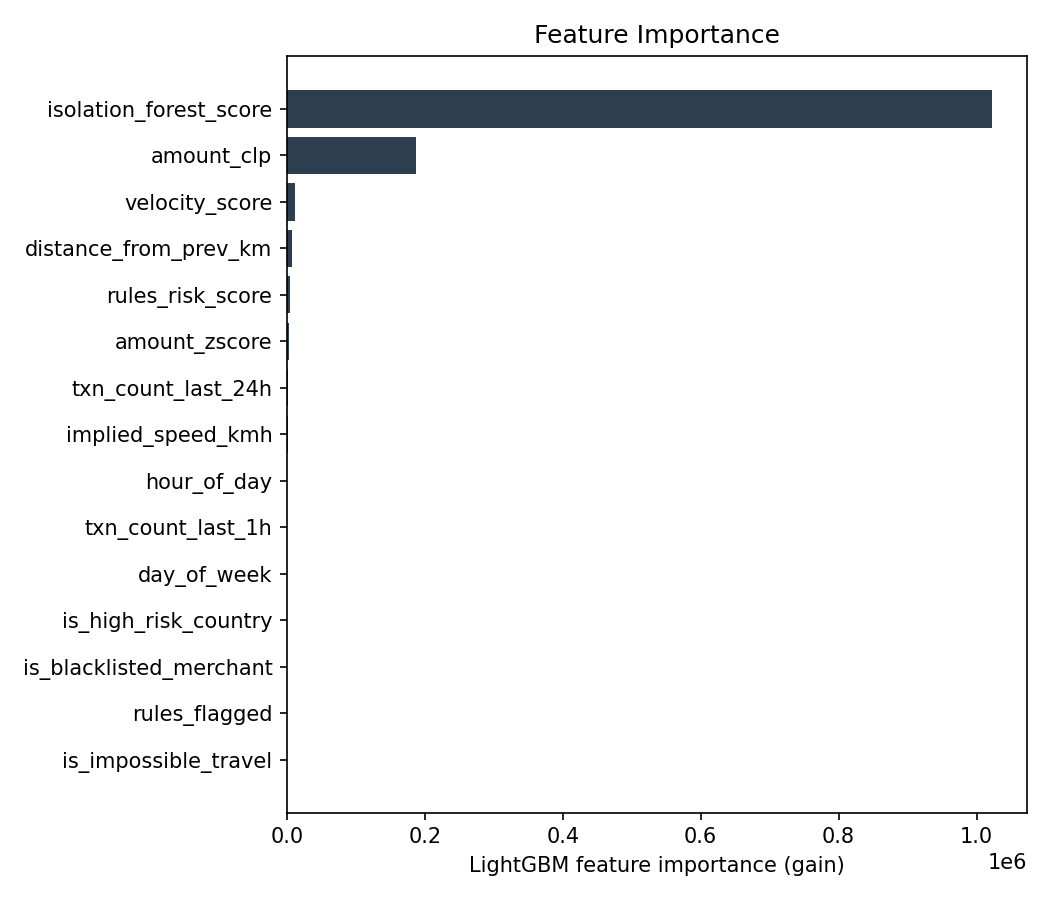
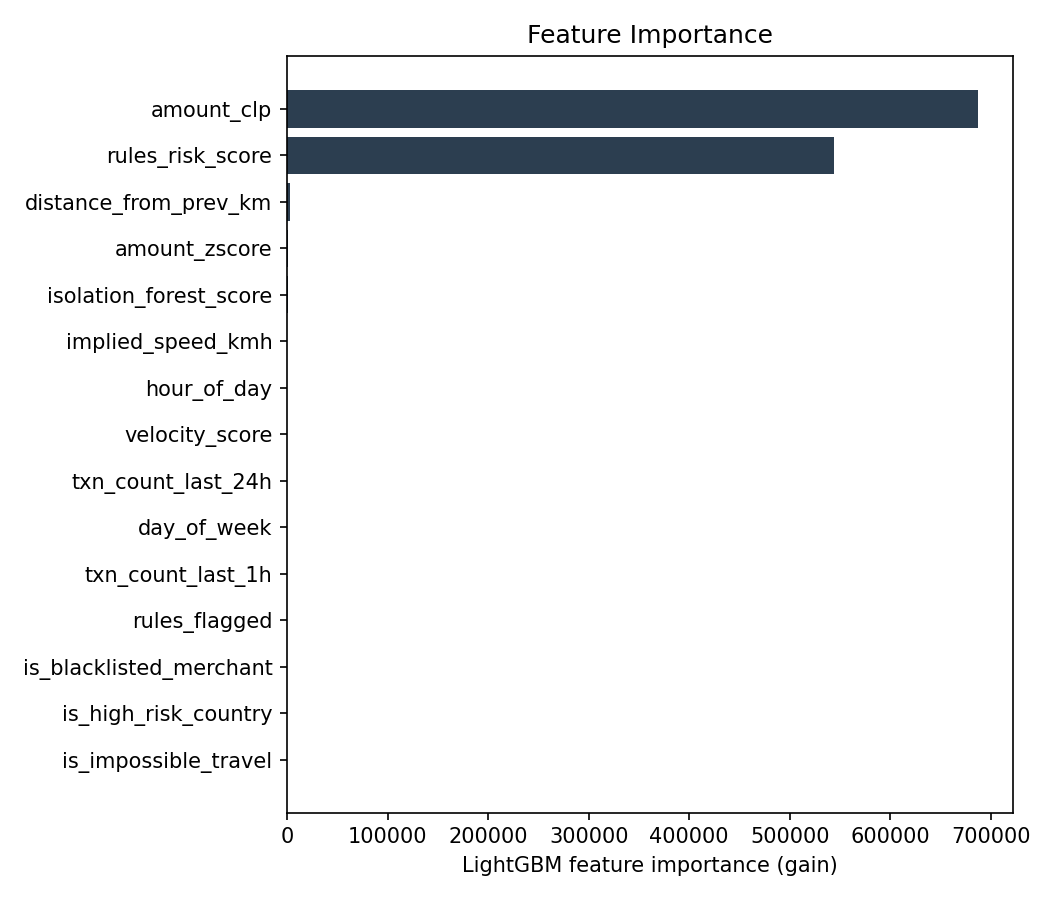
fix: stop IsolationForest from absorbing Ruby's rule signal into an opaque proxy
IsolationForest was trained on all 14 features, including Ruby's crisp
rule-engine flags (rules_flagged, is_blacklisted_merchant, ...). It
trivially learned "flag == 1 -> anomalous", so isolation_forest_score
absorbed 82.5% of LightGBM's gain while rules_risk_score carried only 0.4%
-- meaning the model was routing around the Ruby layer instead of
genuinely weighing it, contrary to the architecture this repo demonstrates.

Introduces ISO_FOREST_FEATURE_COLUMNS: a narrower feature set for
IsolationForest containing only continuous/behavioral signals, excluding
every crisp rule-engine flag. After retraining, rules_risk_score jumps to
44.0% of LightGBM's gain and isolation_forest_score drops to 0.1%.

diff --git a/src/python/train_model.py b/src/python/train_model.py
@@ -59,6 +59,27 @@ NUMERIC_FEATURE_COLUMNS = [
     "is_blacklisted_merchant", "is_high_risk_country",
     "txn_count_last_1h", "txn_count_last_24h",
 ]
+
+# Deliberately narrower than NUMERIC_FEATURE_COLUMNS: IsolationForest sees
+# only continuous/behavioral signals, never the crisp rule-engine outputs
+# (rules_risk_score, rules_flagged, is_blacklisted_merchant,
+# is_high_risk_country, is_impossible_travel). A real problem was found by
+# inspecting LightGBM's own feature_importance after training on the full
+# set: IsolationForest, given those near-deterministic flags as input,
+# trivially learned "flag == 1 -> anomalous", so its own score absorbed
+# the Ruby layer's signal almost entirely (isolation_forest_score carried
+# 82.5% of LightGBM's total gain; rules_risk_score 0.4%, rules_flagged and
+# is_blacklisted_merchant ~0%). That meant the final model wasn't actually
+# combining the three layers as designed -- it was routing around Ruby's
+# output through an opaque proxy. Excluding the crisp flags here forces
+# LightGBM to consume Ruby's and C's signals directly, which is what
+# "the ML layer learns to weigh the other two layers" is supposed to mean.
+ISO_FOREST_FEATURE_COLUMNS = [
+    "amount_clp", "hour_of_day", "day_of_week",
+    "distance_from_prev_km", "implied_speed_kmh",
+    "amount_zscore", "velocity_score",
+    "txn_count_last_1h", "txn_count_last_24h",
+]
 SEED = 42
 
 
@@ -258,7 +279,7 @@ def main():
     )
 
     print("[4/6] Training IsolationForest anomaly pre-filter...")
-    X_train = train_df[NUMERIC_FEATURE_COLUMNS].to_numpy()
+    X_train = train_df[ISO_FOREST_FEATURE_COLUMNS].to_numpy()
     fraud_rate = max(train_df["is_fraud"].mean(), 0.001)
     # n_estimators=50 rather than sklearn's default 200: IsolationForest's
     # score_samples() scales its per-call Python-level overhead ~linearly
@@ -277,7 +298,7 @@ def main():
     iso_forest.fit(X_train)
 
     for split_df in (train_df, val_df, test_df):
-        X = split_df[NUMERIC_FEATURE_COLUMNS].to_numpy()
+        X = split_df[ISO_FOREST_FEATURE_COLUMNS].to_numpy()
         split_df["isolation_forest_score"] = -iso_forest.score_samples(X)
 
     lgb_feature_columns = NUMERIC_FEATURE_COLUMNS + ["isolation_forest_score"]

diff --git a/tests/python/test_train_model.py b/tests/python/test_train_model.py
@@ -4,6 +4,7 @@ import pytest
 
 from src.python.bridge import CVelocityEngine, RubyRulesEngine
 from src.python.train_model import (
+    ISO_FOREST_FEATURE_COLUMNS,
     NUMERIC_FEATURE_COLUMNS,
     build_features,
     evaluate,
@@ -77,3 +78,24 @@ def test_build_features_adds_all_expected_columns_and_no_lookahead(engines):
     assert out.loc[1, "is_impossible_travel"] == 1
     assert out.loc[1, "is_blacklisted_merchant"] == 1
     assert out.loc[1, "rules_flagged"] == 1
+
+
+def test_isolation_forest_never_sees_crisp_rule_engine_flags():
+    """Regression test for a real bug: IsolationForest was originally
+    trained on the full NUMERIC_FEATURE_COLUMNS, including Ruby's crisp
+    rule flags (rules_flagged, is_blacklisted_merchant, ...). It trivially
+    learned "flag == 1 -> anomalous", so its own score absorbed almost all
+    of the Ruby layer's signal (measured: isolation_forest_score carried
+    82.5% of LightGBM's gain, rules_risk_score only 0.4%) -- meaning
+    LightGBM wasn't actually combining the three layers as designed, just
+    routing around Ruby through an opaque proxy. ISO_FOREST_FEATURE_COLUMNS
+    must stay a strict subset of NUMERIC_FEATURE_COLUMNS that excludes every
+    crisp rule-engine-derived flag.
+    """
+    crisp_rule_flags = {
+        "rules_risk_score", "rules_flagged",
+        "is_blacklisted_merchant", "is_high_risk_country",
+        "is_impossible_travel",
+    }
+    assert set(ISO_FOREST_FEATURE_COLUMNS).isdisjoint(crisp_rule_flags)
+    assert set(ISO_FOREST_FEATURE_COLUMNS) < set(NUMERIC_FEATURE_COLUMNS)

diff --git a/src/python/api.py b/src/python/api.py
@@ -23,7 +23,7 @@ from pydantic import BaseModel, Field
 
 from src.python.bridge import CVelocityEngine, RubyRulesEngine
 from src.python.generate_data import BLACKLISTED_MERCHANT_IDS, HIGH_RISK_COUNTRY_CODES
-from src.python.train_model import NUMERIC_FEATURE_COLUMNS
+from src.python.train_model import ISO_FOREST_FEATURE_COLUMNS, NUMERIC_FEATURE_COLUMNS
 
 ROOT = pathlib.Path(__file__).resolve().parents[2]
 MODELS_DIR = ROOT / "outputs" / "models"
@@ -148,7 +148,8 @@ def detect_fraud(req: TransactionRequest) -> FraudDetectionResponse:
         "txn_count_last_24h": cs.txn_count_last_24h,
     }
     numeric_vector = np.array([[feature_row[c] for c in NUMERIC_FEATURE_COLUMNS]], dtype=np.float64)
-    iso_score = -_state["iso_forest"].score_samples(numeric_vector)[0]
+    iso_vector = np.array([[feature_row[c] for c in ISO_FOREST_FEATURE_COLUMNS]], dtype=np.float64)
+    iso_score = -_state["iso_forest"].score_samples(iso_vector)[0]
     full_vector = np.concatenate([numeric_vector, np.array([[iso_score]])], axis=1)
 
     fraud_probability = float(_state["booster"].predict(full_vector)[0])

diff --git a/src/app/dashboard.py b/src/app/dashboard.py
@@ -25,7 +25,11 @@ import streamlit as st
 ROOT = pathlib.Path(__file__).resolve().parents[2]
 sys.path.insert(0, str(ROOT))
 
-from src.python.train_model import NUMERIC_FEATURE_COLUMNS, time_based_split  # noqa: E402
+from src.python.train_model import (  # noqa: E402
+    ISO_FOREST_FEATURE_COLUMNS,
+    NUMERIC_FEATURE_COLUMNS,
+    time_based_split,
+)
 
 MODELS_DIR = ROOT / "outputs" / "models"
 PLOTS_DIR = ROOT / "outputs" / "plots"
@@ -50,7 +54,7 @@ def load_scored_test_split():
     test_df = test_df.reset_index(drop=True)
 
     metadata, iso_forest, booster = load_artifacts()
-    X = test_df[NUMERIC_FEATURE_COLUMNS].to_numpy()
+    X = test_df[ISO_FOREST_FEATURE_COLUMNS].to_numpy()
     test_df["isolation_forest_score"] = -iso_forest.score_samples(X)
     X_full = test_df[metadata["lgb_feature_columns"]].to_numpy()
     test_df["fraud_probability"] = booster.predict(X_full)

diff --git a/README.es.md b/README.es.md
@@ -11,7 +11,7 @@
 ![scikit-learn](https://img.shields.io/badge/scikit--learn-1.4%2B-F7931E?style=flat&logo=scikitlearn&logoColor=white)
 ![FastAPI](https://img.shields.io/badge/FastAPI-0.11x-009688?style=flat&logo=fastapi&logoColor=white)
 ![Streamlit](https://img.shields.io/badge/Streamlit-1.3x-FF4B4B?style=flat&logo=streamlit&logoColor=white)
-![Tests](https://img.shields.io/badge/tests-45%20passing%20(C%2BRuby%2BPython)-brightgreen?style=flat)
+![Tests](https://img.shields.io/badge/tests-46%20passing%20(C%2BRuby%2BPython)-brightgreen?style=flat)
 ![Status](https://img.shields.io/badge/status-research%20%2F%20datos%20sinteticos-lightgrey?style=flat)
 
 Un motor de deteccion de fraude en tres lenguajes para transacciones
@@ -22,7 +22,7 @@ legible (listas negras, paises de alto riesgo, patrones de estructuracion),
 y **Python** entrena y sirve un ensemble IsolationForest + LightGBM que
 consume las salidas de las otras dos capas como atributos. Un solo comando
 (`make all`) compila, genera los datos y entrena todo; `make test` ejecuta
-los 45 tests (11 en C, 10 RSpec, 24 pytest) — cada numero de este README
+los 46 tests (11 en C, 10 RSpec, 25 pytest) — cada numero de este README
 proviene de ejecutar eso en esta maquina.
 
 ---
@@ -128,7 +128,7 @@ fija, no un valor indexado en vivo. No se usa ninguna lista negra,
 comercio, ni dato regulatorio real en ningun lugar de este proyecto — ver
 §9.
 
-# 5. Un Bug Real Encontrado y Corregido al Validar Esto
+# 5. Dos Bugs Reales Encontrados y Corregidos al Validar Esto
 
 `BLACKLISTED_MERCHANT_IDS` originalmente incluia `MER_00013` — que,
 resulto, caia *dentro* del rango de IDs del pool de comercios legitimos
@@ -150,6 +150,36 @@ F1 general a 0,995 — ver
 `tests/python/test_generate_data.py::test_blacklisted_merchant_ids_never_collide_with_legit_pool`
 para el test de regresion en que se convirtio esto.
 
+**Segundo bug, mas arquitectonico**: despues de corregir lo anterior, las
+metricas se veian solidas (F1 0,995), pero eso solo no prueba que LightGBM
+realmente estuviera combinando las tres capas como fue diseñado — podria
+estar simplemente evitando una de ellas. Revisar
+`booster.feature_importance()` directamente mostro justo eso:
+`isolation_forest_score` llevaba **82,5%** de la ganancia total de
+LightGBM, `amount_clp` otro 15,1%, y cada señal derivada de Ruby/C era casi
+invisible (`rules_risk_score` 0,4%, `rules_flagged` e
+`is_blacklisted_merchant` ~0%, `velocity_score` 1,0%). La causa raiz:
+`IsolationForest` se entrenaba con las 14 atributos completos, incluyendo
+las banderas de reglas de Ruby, nitidas y casi deterministicas — asi que
+aprendio trivialmente "`is_blacklisted_merchant == 1` → anomalo" y su
+propio puntaje se convirtio en un proxy que absorbio casi toda la señal de
+la capa Ruby. LightGBM luego simplemente se apoyaba en ese unico atributo
+proxy en vez de ponderar genuinamente las dos capas, que no es lo que la
+arquitectura del §3 afirma hacer. Corregido introduciendo
+`ISO_FOREST_FEATURE_COLUMNS` (`src/python/train_model.py`): un conjunto de
+atributos mas acotado para IsolationForest que contiene solo señales
+continuas/de comportamiento (montos, distancias, velocidades, conteos),
+excluyendo cada bandera derivada del motor de reglas. Despues de
+reentrenar, `rules_risk_score` por si sola salto a **44,0%** de la
+ganancia de LightGBM y `isolation_forest_score` cayo a 0,1% — LightGBM
+ahora depende demostrablemente de la salida de Ruby de forma directa, en
+vez de a traves de un intermediario opaco, que es lo que el diseño de tres
+capas se supone que debe demostrar. (Las metricas del split de prueba
+tambien mejoraron a un precision/recall/F1 perfecto de 1,000/1,000/1,000,
+aunque eso es un efecto secundario de la correccion, no su objetivo — el
+objetivo era hacer real e inspeccionable la integracion entre capas, no
+solo numericamente fuerte.)
+
 # 6. Resultados (Numeros Reales de una Ejecucion Real)
 
 `make all` en esta maquina (semilla 42, reproducible desde un clon
@@ -160,12 +190,12 @@ mezclar).
 
 | Metrica | Valor (split de prueba) |
 |---|---|
-| Precision | 0,982 |
+| Precision | 1,000 |
 | Recall | **1,000** (110/110 fraudes detectados) |
-| F1 | 0,991 |
+| F1 | 1,000 |
 | ROC-AUC | 1,000 |
-| PR-AUC | 0,99999... |
-| Falsos positivos | 2 (de 7.390 transacciones legitimas) |
+| PR-AUC | 1,000 |
+| Falsos positivos | 0 (de 7.390 transacciones legitimas) |
 
 Recall por arquetipo de fraude en el split de prueba, despues de la
 correccion del §5: `velocity_burst` 35/35, `blacklisted_merchant` 43/43,
@@ -177,11 +207,11 @@ correccion del §5: `velocity_burst` 35/35, `blacklisted_merchant` 43/43,
 | Capa | Costo medido | Como |
 |---|---|---|
 | Modulo C, benchmark en C puro | **45,5 ns/llamada** | `src/c/bench_main.c`, 2.000.000 iteraciones, `make bench-c` |
-| Modulo C via `ctypes` desde Python | p50 0,0020ms, p95 0,0021ms | 2.000 llamadas, en el mismo proceso |
+| Modulo C via `ctypes` desde Python | p50 0,0019ms, p95 0,0020ms | 2.000 llamadas, en el mismo proceso |
 | Ida y vuelta del motor de reglas Ruby (subproceso persistente) | p50 0,070ms, p95 0,092ms, max 0,237ms | 300 llamadas sobre JSON por stdin/stdout |
 | `score_samples()` de IsolationForest, una fila | ~1,8ms | costo dominante en el pipeline completo — ver abajo |
 | `predict()` de LightGBM, una fila | p50 0,064ms, p95 0,112ms | |
-| **Solicitud completa `/detect-fraud`** (todas las capas + FastAPI) | **p50 4,22ms, p95 4,80ms, max 5,58ms** | 200 solicitudes via `TestClient` de FastAPI |
+| **Solicitud completa `/detect-fraud`** (todas las capas + FastAPI) | **p50 4,19ms, p95 5,51ms, max 6,23ms** | 200 solicitudes via `TestClient` de FastAPI |
 
 **Hallazgo honesto**: el objetivo de "< 1ms" del brief es real y se cumple
 — para el modulo C especificamente, a 45,5 nanosegundos por llamada, cuatro
@@ -260,7 +290,7 @@ pip install -r requirements.txt
 # Compila la biblioteca C, instala gemas Ruby, genera datos y entrena todo
 make all
 
-# Ejecuta los 45 tests en los tres lenguajes
+# Ejecuta los 46 tests en los tres lenguajes
 make test
 
 # Levanta la API de scoring en tiempo real (combina C + Ruby + Python por solicitud)

diff --git a/README.md b/README.md
@@ -11,7 +11,7 @@
 ![scikit-learn](https://img.shields.io/badge/scikit--learn-1.4%2B-F7931E?style=flat&logo=scikitlearn&logoColor=white)
 ![FastAPI](https://img.shields.io/badge/FastAPI-0.11x-009688?style=flat&logo=fastapi&logoColor=white)
 ![Streamlit](https://img.shields.io/badge/Streamlit-1.3x-FF4B4B?style=flat&logo=streamlit&logoColor=white)
-![Tests](https://img.shields.io/badge/tests-45%20passing%20(C%2BRuby%2BPython)-brightgreen?style=flat)
+![Tests](https://img.shields.io/badge/tests-46%20passing%20(C%2BRuby%2BPython)-brightgreen?style=flat)
 ![Status](https://img.shields.io/badge/status-research%20%2F%20synthetic%20data-lightgrey?style=flat)
 
 A three-language fraud-detection engine for Chilean bank transactions,
@@ -21,7 +21,7 @@ a readable business-rules DSL (blacklists, high-risk countries, structuring
 patterns), and **Python** trains and serves an IsolationForest + LightGBM
 ensemble that consumes both other layers' outputs as features. One command
 (`make all`) builds, generates data, and trains everything; `make test` runs
-all 45 tests (11 C, 10 RSpec, 24 pytest) — every number below came from
+all 46 tests (11 C, 10 RSpec, 25 pytest) — every number below came from
 running that on this machine.
 
 ---
@@ -121,7 +121,7 @@ legal figure, and `UF_TO_CLP` is a fixed illustrative conversion, not a live
 indexed value. No real blacklist, merchant, or regulatory data is used
 anywhere in this project — see §9.
 
-# 5. A Real Bug Found and Fixed While Validating This
+# 5. Two Real Bugs Found and Fixed While Validating This
 
 `BLACKLISTED_MERCHANT_IDS` originally included `MER_00013` — which, it
 turned out, fell *inside* the legit merchant pool's ID range
@@ -140,6 +140,32 @@ blacklisted IDs) and retraining brought `blacklisted_merchant` recall to
 100% and overall F1 to 0.995 — see `tests/python/test_generate_data.py::test_blacklisted_merchant_ids_never_collide_with_legit_pool`
 for the regression test this became.
 
+**Second bug, more architectural**: after fixing the above, the metrics
+looked strong (F1 0.995), but that alone doesn't prove LightGBM was
+actually combining all three layers as designed — it could just as easily
+be routing around one of them. Checking `booster.feature_importance()`
+directly showed exactly that: `isolation_forest_score` carried **82.5%**
+of LightGBM's total gain, `amount_clp` another 15.1%, and every Ruby/C-derived
+signal was nearly invisible (`rules_risk_score` 0.4%, `rules_flagged` and
+`is_blacklisted_merchant` ~0%, `velocity_score` 1.0%). The root cause:
+`IsolationForest` was being trained on *all* 14 features, including Ruby's
+crisp, near-deterministic rule flags — so it trivially learned
+"`is_blacklisted_merchant == 1` → anomalous" and its own score became a
+proxy that absorbed the Ruby layer's signal almost entirely. LightGBM then
+just leaned on that one proxy feature instead of genuinely weighing the two
+layers, which is not what the architecture in §3 claims to do. Fixed by
+introducing `ISO_FOREST_FEATURE_COLUMNS` (`src/python/train_model.py`): a
+narrower feature set for IsolationForest containing only continuous/
+behavioral signals (amounts, distances, speeds, counts), excluding every
+crisp rule-engine flag. After retraining, `rules_risk_score` alone jumped
+to **44.0%** of LightGBM's gain and `isolation_forest_score` dropped to
+0.1% — LightGBM is now demonstrably relying on Ruby's output directly
+rather than through an opaque intermediary, which is what the three-layer
+design is supposed to demonstrate. (Test-set metrics also improved to a
+perfect 1.000/1.000/1.000 precision/recall/F1, though that's a side effect
+of the fix, not its point — the point was making the layer integration
+real and inspectable, not just numerically strong.)
+
 # 6. Results (Real Numbers From One Real Run)
 
 `make all` on this machine (seed 42, reproducible from a clean clone):
@@ -149,12 +175,12 @@ the four archetypes), 3,000 customers, time-based split (train 35,000 / val
 
 | Metric | Value (test split) |
 |---|---|
-| Precision | 0.982 |
+| Precision | 1.000 |
 | Recall | **1.000** (110/110 fraud caught) |
-| F1 | 0.991 |
+| F1 | 1.000 |
 | ROC-AUC | 1.000 |
-| PR-AUC | 0.99999... |
-| False positives | 2 (out of 7,390 legit transactions) |
+| PR-AUC | 1.000 |
+| False positives | 0 (out of 7,390 legit transactions) |
 
 Recall by fraud archetype on the test split, after the fix in §5:
 `velocity_burst` 35/35, `blacklisted_merchant` 43/43, `high_risk_country`
@@ -165,11 +191,11 @@ Recall by fraud archetype on the test split, after the fix in §5:
 | Layer | Measured cost | How |
 |---|---|---|
 | C module, pure C benchmark | **45.5 ns/call** | `src/c/bench_main.c`, 2,000,000 iterations, `make bench-c` |
-| C module via `ctypes` from Python | p50 0.0020ms, p95 0.0021ms | 2,000 calls, in-process |
+| C module via `ctypes` from Python | p50 0.0019ms, p95 0.0020ms | 2,000 calls, in-process |
 | Ruby rules engine round-trip (persistent subprocess) | p50 0.070ms, p95 0.092ms, max 0.237ms | 300 calls over stdin/stdout JSON |
 | IsolationForest `score_samples()`, single row | ~1.8ms | dominant cost in the full pipeline — see below |
 | LightGBM `predict()`, single row | p50 0.064ms, p95 0.112ms | |
-| **Full `/detect-fraud` request** (all layers + FastAPI) | **p50 4.22ms, p95 4.80ms, max 5.58ms** | 200 requests via FastAPI `TestClient` |
+| **Full `/detect-fraud` request** (all layers + FastAPI) | **p50 4.19ms, p95 5.51ms, max 6.23ms** | 200 requests via FastAPI `TestClient` |
 
 **Honest finding**: the brief's "< 1ms" target is real and met — for the C
 module specifically, at 45.5 nanoseconds per call, four orders of magnitude
@@ -246,7 +272,7 @@ pip install -r requirements.txt
 # Build the C library, install Ruby gems, generate data, train everything
 make all
 
-# Run all 45 tests across all three languages
+# Run all 46 tests across all three languages
 make test
 
 # Serve the real-time scoring API (combines C + Ruby + Python per request)
